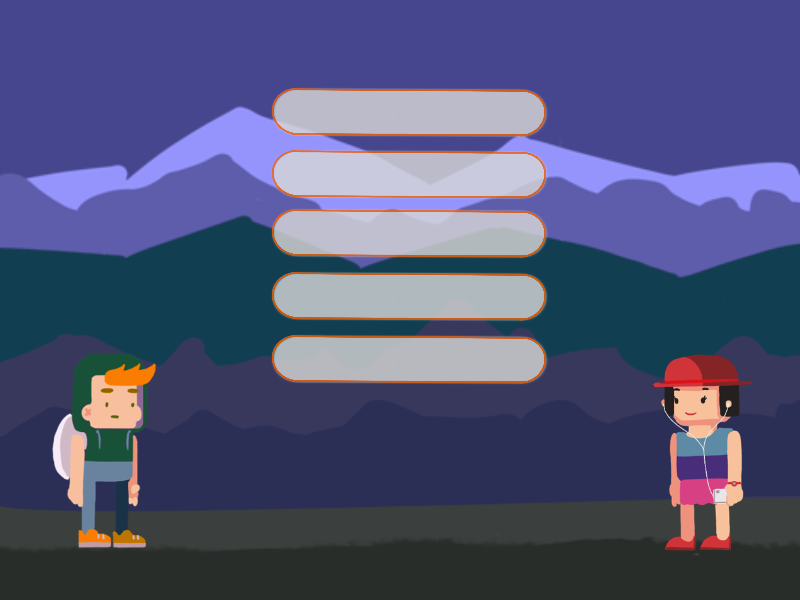
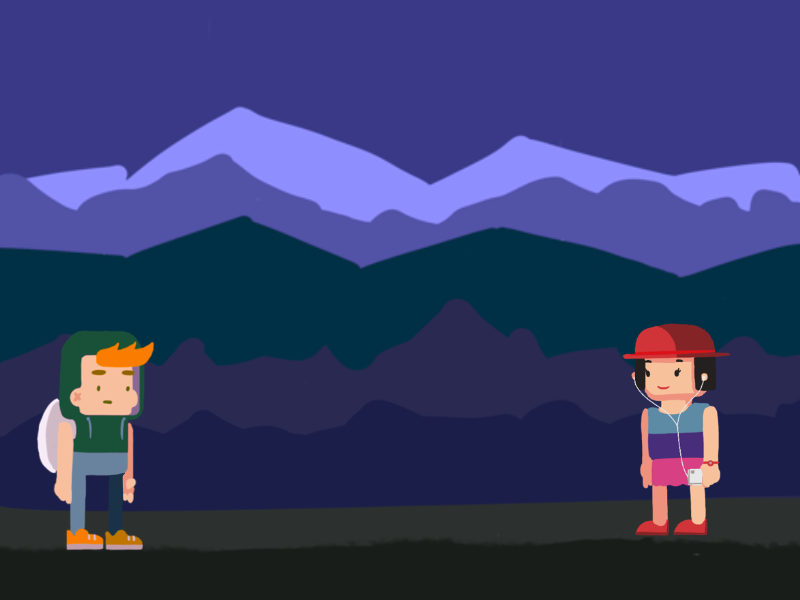
Added background Fixed menu

Changed region(s): [[0.3125, 0.12, 0.6875, 0.66], [0.7812, 0.54, 0.9375, 0.93], [0.0312, 0.54, 0.2188, 0.93]]

diff --git a/endgame/src/menu.c b/endgame/src/menu.c
@@ -43,7 +43,7 @@ int show_menu(SDL_Renderer *renderer) {
     //background
     SDL_Rect backgroundRect = {0, 0, WINDOW_WIDTH, WINDOW_HEIGHT};
     SDL_Texture *imgBackground = IMG_LoadTexture(renderer,
-                                                 "resource/background");
+                                                 "resource/empty_back.png");
 
     while (running) {
         color.r = 0;
